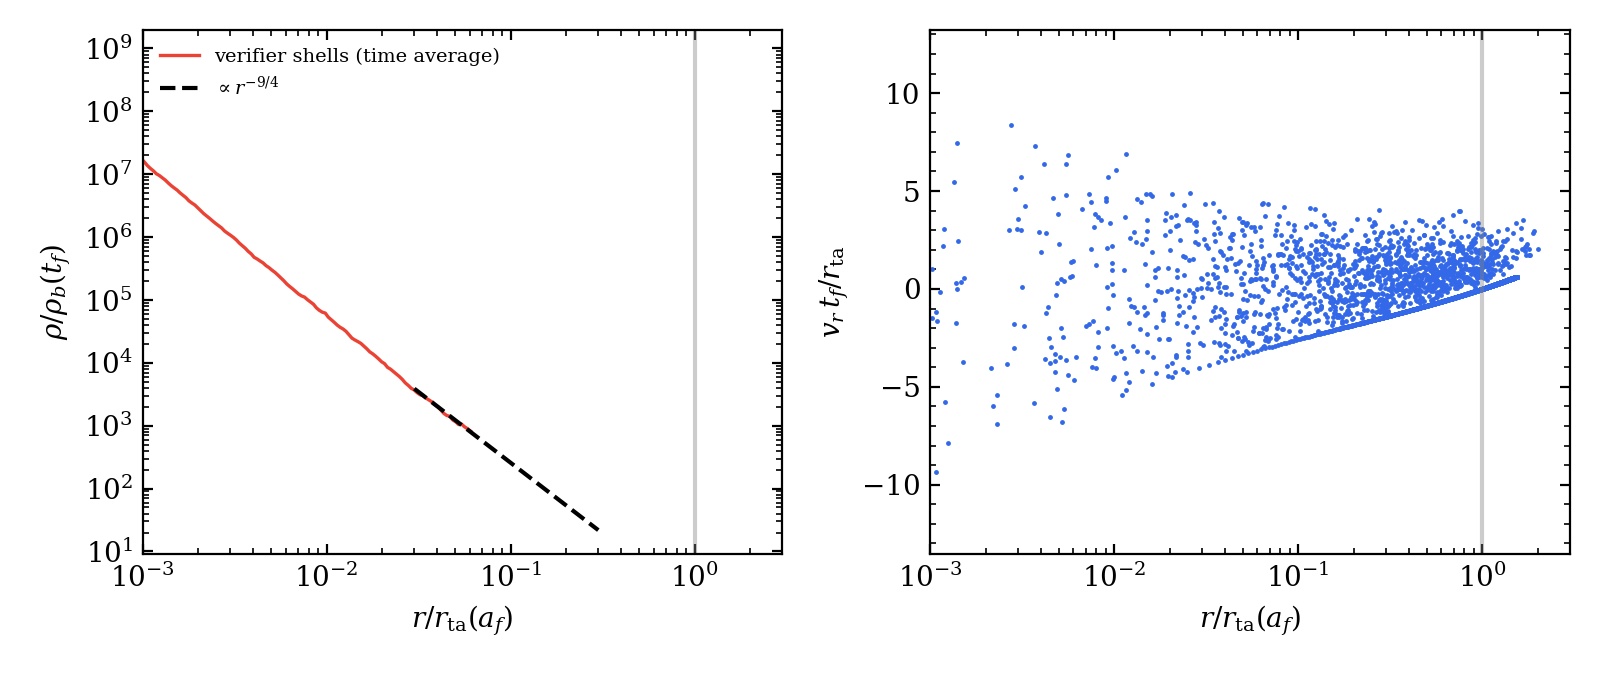
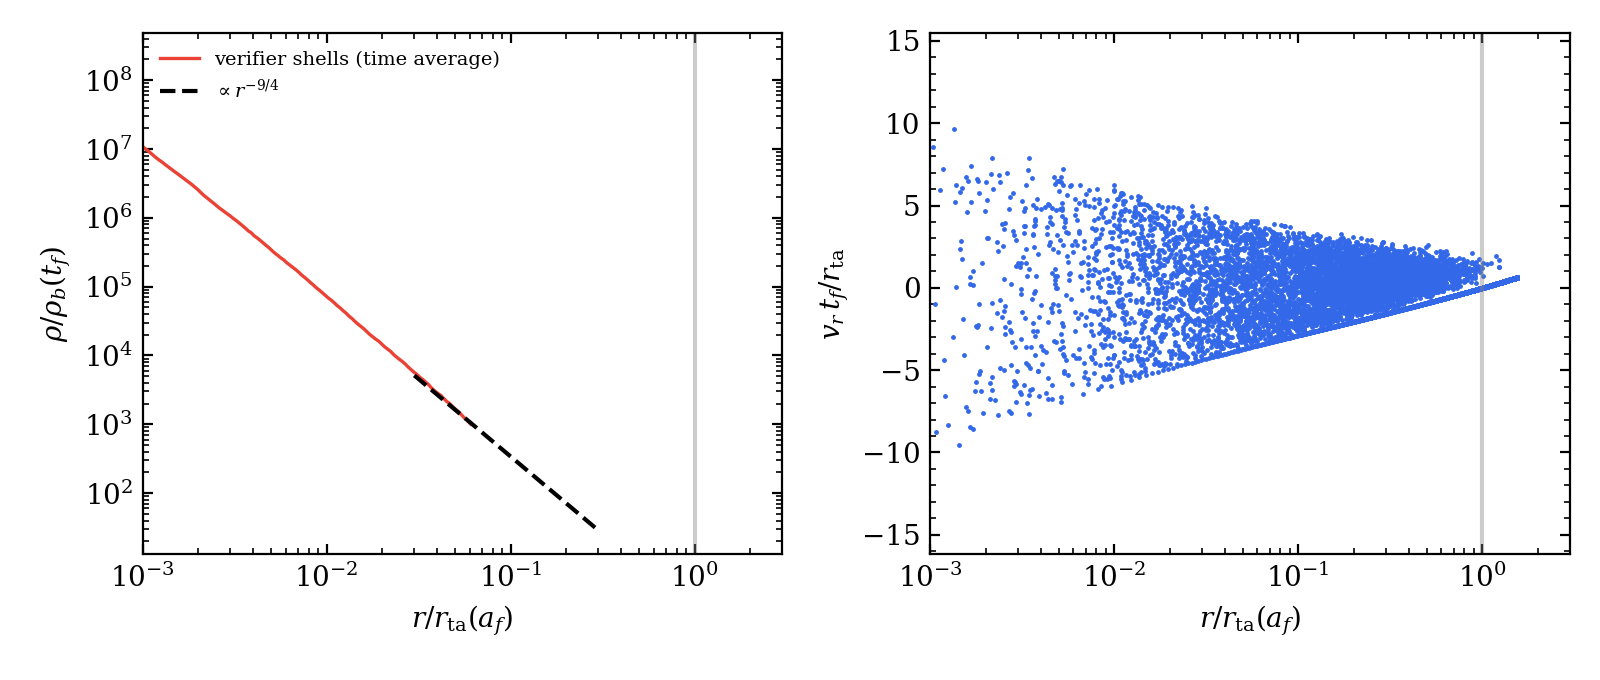
G0 verifier: own shell code converges to the track's self-similar m(lambda) (median deviation 32 -> 7 percent for N 2000 -> 16000); -9/4 only as the asymptote (run D-20261115-173149-7c6dd72)
Claude-Session: https://claude.ai/code/session_01VD79cUYemmpt27M8dtYPfW

diff --git a/tracks/D-bh-dress/stage/G0/JOURNAL.md b/tracks/D-bh-dress/stage/G0/JOURNAL.md
@@ -201,3 +201,20 @@ runs, against -2.37 of the self-similar solution there.
 Prediction for the registered run v4_driver2.sh (same code, five variants in parallel):
 the debug numbers are reproduced exactly (deterministic), and N = 16000 has a median
 deviation below 10 percent in magnitude; refuted if N = 16000 is not closer than N = 8000.
+
+## Entry 10: C4 outcome (run D-20261115-173149-7c6dd72)
+
+Debug numbers reproduced exactly. Median deviation of my m(lambda) from the track's
+self-similar m(lambda) over 0.02 < lambda < 0.5: -31.6, -23.1, -13.6, -7.4 percent for
+N = 2000, 4000, 8000, 16000 (eta = 0.05), -18.7 percent for N = 4000 at eta = 0.0125;
+largest deviation 12.7 percent at N = 16000. Prediction of entry 9 holds (N = 16000 below
+10 percent in median and closer than N = 8000). A 1/N extrapolation from the two largest N
+gives about -1 percent (from N = 4000, 8000: -4 percent) [JUDGEMENT on the form of the
+extrapolation]. Enclosed-mass slopes over 0.03-0.4 r_ta: -2.32 ... -2.44 (self-similar:
+-2.37 over 0.03-0.3). So my shell code converges towards the track's self-similar solution;
+the -9/4 slope is the asymptote at lambda << 1e-2, not the slope of 0.03-0.3 r_ta.
+Defect found in my own figure: the time-averaged density histogram of v4_shells.py uses
+bins up to 3 times the initial outermost radius, i.e. only r < 0.06 r_ta at a_f = 100; the
+"density_slope_fits" in v4_shells.json are therefore fits to partial ranges and are not
+used anywhere; the enclosed-mass numbers use the final snapshot of all shells and are not
+affected.
